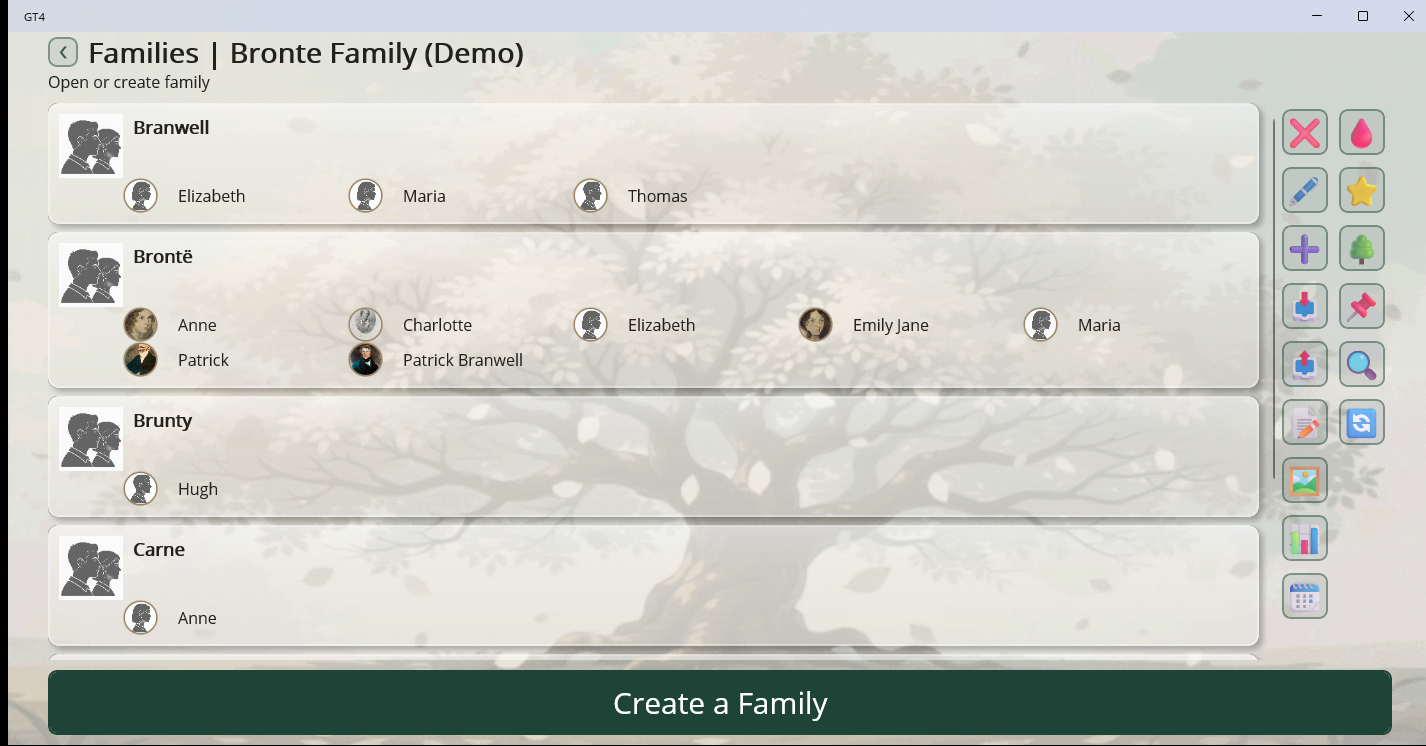
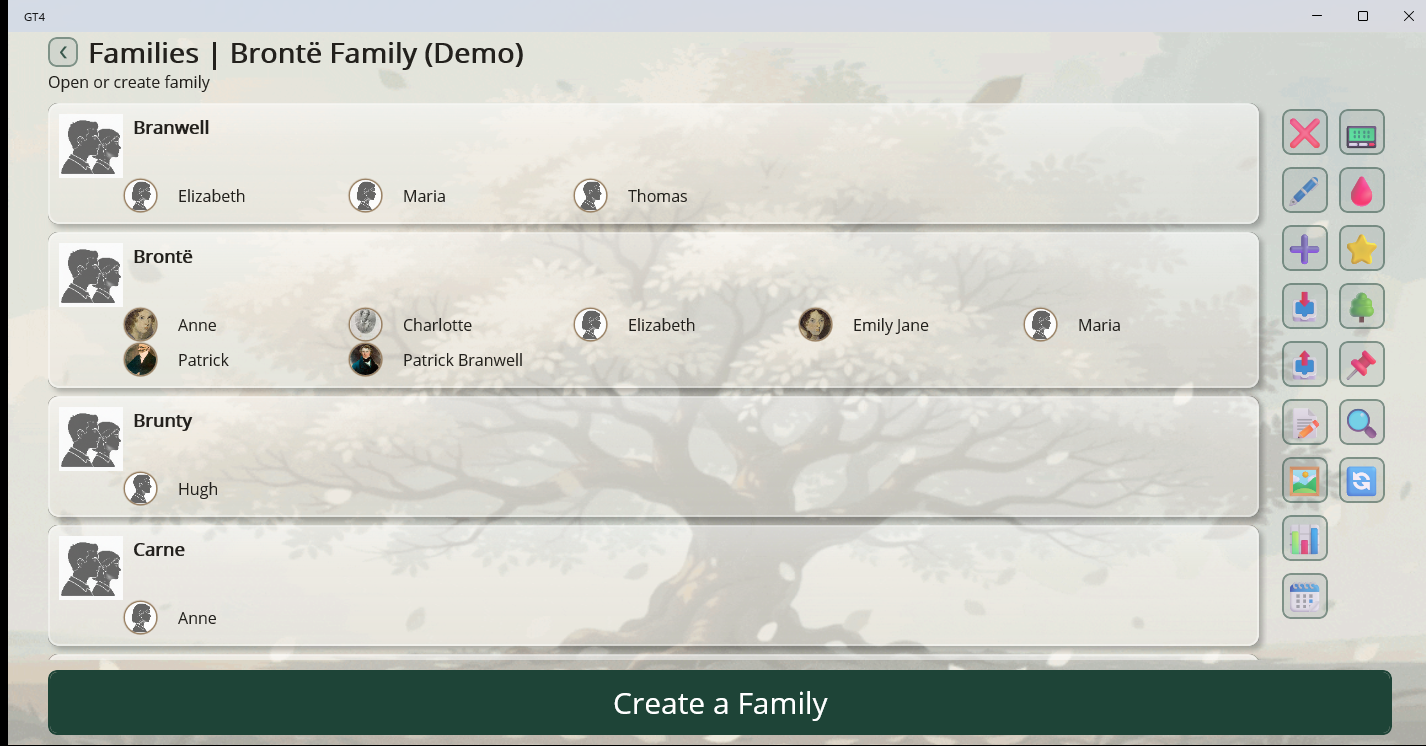
(*) Record the November release checks and re-shoot six screenshots
The sideload check and WACK both passed on the 4.0.847.0 package, and
the runbook still described October's results, mandatory-update reason
and open bugs.

Five screenshots showed side menus without the fan chart or Date tools
button the new build adds; a sixth is re-shot for its header only.

diff --git a/doc/store/release-and-submission.md b/doc/store/release-and-submission.md
@@ -202,8 +202,16 @@ features and non-crash bug fixes, and marking every submission mandatory just
 trains the toggle to be ignored. Turn it on when a submission fixes a crash or
 a data-loss/corruption bug that shipped in a previous submission.
 
-The October 2026 release (this one, at the time of writing) qualifies, on data
-loss: PR #458 fixes #451, where a biography typed into the *create* person
+The November 2026 release (this one, at the time of writing) qualifies, on data
+loss: PR #519 fixes #510, where changing an approximate date in the date dialog
+silently dropped its "about". The dialog opened such a date with its switches
+off, so any edit saved a different date than the one the user started from.
+Checked against `v4.0.723.0` rather than assumed: its `SelectDateDialog`
+constructor has no `YearApproximate` case. The same release fixes #520 (PR
+#521), where a GEDCOM export could leave a godparent or witness pointer naming
+the wrong person; that one was not checked against the tag.
+
+The October 2026 release qualified the same way: PR #458 fixes #451, where a biography typed into the *create* person
 dialog was silently discarded on save. Checked against `v4.0.688.0` rather than
 assumed — there the dialog showed the biography editor unconditionally, but only
 built the item behind it for an existing person, so the editor had nothing to
@@ -306,35 +314,56 @@ that table together when behaviour changes.
 
 ### Open bugs at the time of this release, judged not blocking
 
-Pulled live on 2026-10-09; none touch the Windows Store build's correctness.
+Pulled live on 2026-11-14; none touch the Windows Store build's correctness.
+(#466, the flaky device test listed here in October, was closed on 2026-10-10.)
 
-- **#466** — a flaky device test (`PersonPageTests`, photo box in a very short
-  landscape window). Test-only; the workflow runs no tests anyway.
+- **#546** — `AndroidFileSystem.Move` isn't atomic, which the model cache
+  relies on. Dormant: no photo enhancement is registered on Android.
 - **#271** — `PersonInfoView` retained after in-place rebinding. Android-only,
   shipped in every earlier release.
 - **#262** — memory growth scrolling the families list one card at a time;
   partly fixed earlier, the remainder shipped in every earlier release.
 
-**The two family-tree screenshots were re-shot** against the installed
-`4.0.723.0` MSIX, since #469 replaced the layout they showed; `04`, `05` and `08`
-were compared against the same build and kept. This submission swapped the two
-new files in by hand after a `.csv`-only import; from the next release on, the
-folder import above carries all ten.
-See [listings/README.md](listings/README.md).
+**Six screenshots were re-shot** against the installed `4.0.847.0` MSIX: `02`,
+`04`, `05`, `06` and `13` because their side menus gained the fan chart or Date
+tools button, and `07` for its header. `08`, `09`, `10` and `11` were compared
+against the same build and kept. See [listings/README.md](listings/README.md)
+("November 2026 release"). (In October only the two family-tree shots were
+re-shot, against `4.0.723.0`, after #469 replaced the layout they showed.)
 
-**The sideload check passed** on 2026-10-09: `4.0.723.0` installed from the
-release's `.msix`, `Get-AppxPackage` reports PFN
-`gasizdat.GenealogyTree_25ksdz0mncfjg`, and the app launched, opened a project
-and drove the family tree.
+**The sideload check passed** on 2026-11-14: `4.0.847.0` installed from the
+release's `.msix` after removing the previous install, `Get-AppxPackage` reports
+PFN `gasizdat.GenealogyTree_25ksdz0mncfjg`, and the app launched, opened the
+demo project and drew the family tree and the fan chart. It also ran a photo
+enhancement, the first packaged build to carry one: with the Upscale model
+moved out of `.models` beforehand, the app named the model, its license and its
+size, downloaded it on a yes, and added an "(AI: upscaled ×2)" copy beside the
+source. The dev machine's `.models` folder in `%APPDATA%` already exists, so
+MSIX doesn't redirect it; empty it of the model under test, or the download is
+never exercised.
 
-**WACK passed** on the same package (kit 10.0.28000, 2026-10-09): 23 of 24 tests
-pass, overall result PASS. The one failure, *Blocked executables*, is an
+**WACK passed** on the same package (kit 10.0.28000.2957, 2026-11-14): 23 of 24
+tests pass, overall result PASS. The one failure, *Blocked executables*, is an
 optional test (`OPTIONAL="TRUE"` in the report) aimed at Windows S mode, and
 expected here. `Process.Start`/`ShellExecute` are MAUI's `Launcher`, which
 opens attachments and biography links. The "Cmd"/"reG"/"CdB"/"MSBuild" hits are
 substring matches in strings: in GT4's own resources, the Mac hotkey hint
-"Cmd + +/-/0"; the rest are inside Markdig, MAUI and WinRT. Expect the same
+"Cmd + +/-/0"; the rest are inside Markdig, MAUI and WinRT. New in November is
+one more of the same kind, "DNx" inside `onnxruntime.dll`. Expect the same
 result on every release; a new *required* failure is what to look for.
+
+WACK also runs unattended, which is how the November run was done, from an
+elevated shell:
+
+```powershell
+$appcert = 'C:\Program Files (x86)\Windows Kits\10\App Certification Kit\appcert.exe'
+& $appcert reset
+& $appcert test -appxpackagepath <full path to the .msix> -reportoutputpath <full path to a new .xml>
+```
+
+The signing certificate has to be trusted first, the previous install removed,
+and the report file must not exist yet. `OVERALL_RESULT` in the report is the
+verdict.
 
 The palette needs no inventory here any more. #358 and #360 cleared the
 last of the MAUI template colours, and what replaced them is pinned by the

diff --git a/doc/store/listings/README.md b/doc/store/listings/README.md
@@ -28,7 +28,9 @@ opened demo project, and each one's header names it ("Families | Brontë Family
 
 Nine are from a single session against the September release branch's tip;
 `06` and `13` were re-shot in October against the installed `4.0.723.0` MSIX
-(see "October 2026 release" below). Unlike
+(see "October 2026 release" below), and `02`, `04`, `05`, `06`, `07` and `13`
+in November against the installed `4.0.847.0` MSIX (see "November 2026
+release"). Unlike
 the previous set, no shot in this set displays the app version (that only ever
 appeared on the now-dropped home screen), so there's no version-pinning
 constraint on which commit they're built from.
@@ -96,6 +98,35 @@ crop.
   defaults. The README's "default name/date formats" meant removing the
   `NameFormatter.*`, `DateFormatter.*Format` and `DateSpanFormatter.*` keys
   (backed up first, restored after), not trusting a fresh install.
+
+## November 2026 release
+
+All ten were compared against the installed `4.0.847.0` MSIX, with the demo
+tree built by `RelativesCli` and the name and date format keys removed from
+`appconfig.json` for the session.
+
+- **`04-person.png`, `05-biography.png`, `06-family-tree.png` and
+  `13-family-tree-dark.png` were re-shot**, because each page's side menu gained
+  the fan chart button (◔). Same framing as before: `04` on the Armytage
+  engraving, `06` and `13` with Charlotte centred and *Relatives* on. The 🔀
+  button is dimmed in both tree shots, since nothing is arranged in this
+  project.
+- **`02-families.png` was re-shot**, because the menu gained the Date tools
+  button. Charlotte was marked as the main person first: without a mark the
+  ⭐ and 🌳 items are now disabled and dim (#499), which reads as broken in a
+  Store shot.
+- **`07-statistics.png` was re-shot though its page is unchanged**, only so its
+  header spells the project "Brontë" like the other new shots. `RelativesCli`
+  now stores the GEDCOM file's name as the project name (#610), so the name no
+  longer has to be written by hand.
+- **`08-gallery.png`, `09-kinship-finder.png`, `10-date-calendar.png` and
+  `11-settings.png` were compared and kept.** Their pages show no change. `08`
+  still says "Bronte", and `09` shows Patrick's age a day short of what the
+  app now prints, after the date-span fix in #504.
+- **`03-family.png`, the spare, was not compared.**
+- **No fan chart shot was added.** The demo tree has only two generations above
+  Charlotte, so its fan chart is six thin segments and undersells the feature.
+  A fan chart screenshot needs a deeper tree.
 
 ## Still worth fixing
 
